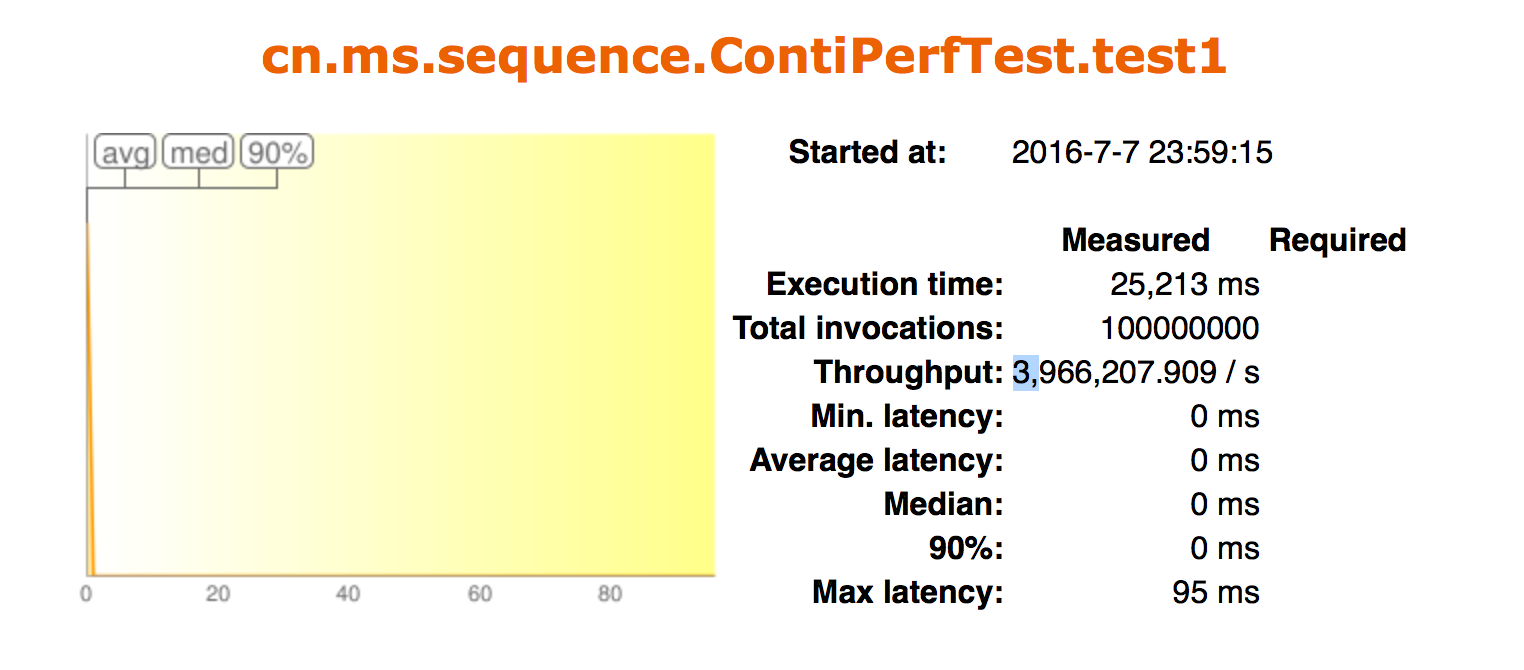
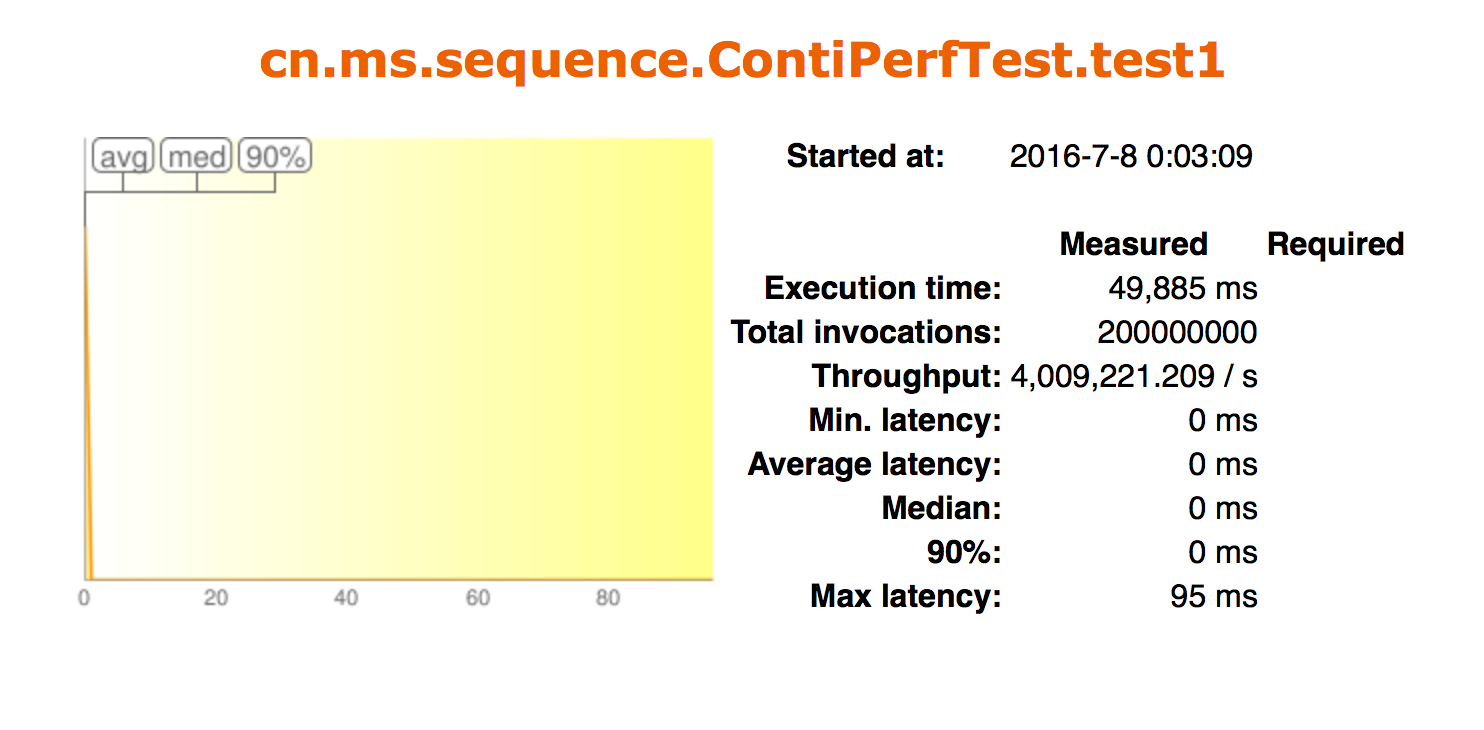
no commit message

diff --git a/src/test/java/cn/ms/sequence/ContiPerfTest.java b/src/test/java/cn/ms/sequence/ContiPerfTest.java
@@ -18,7 +18,7 @@ public class ContiPerfTest {
 	Sequence sequence = new Sequence(0, 0);
 	
 	@Test
-	@PerfTest(invocations = 100000000, threads = 16)
+	@PerfTest(invocations = 200000000, threads = 16)
 	public void test1() throws Exception {
 		sequence.nextId();
 	}
